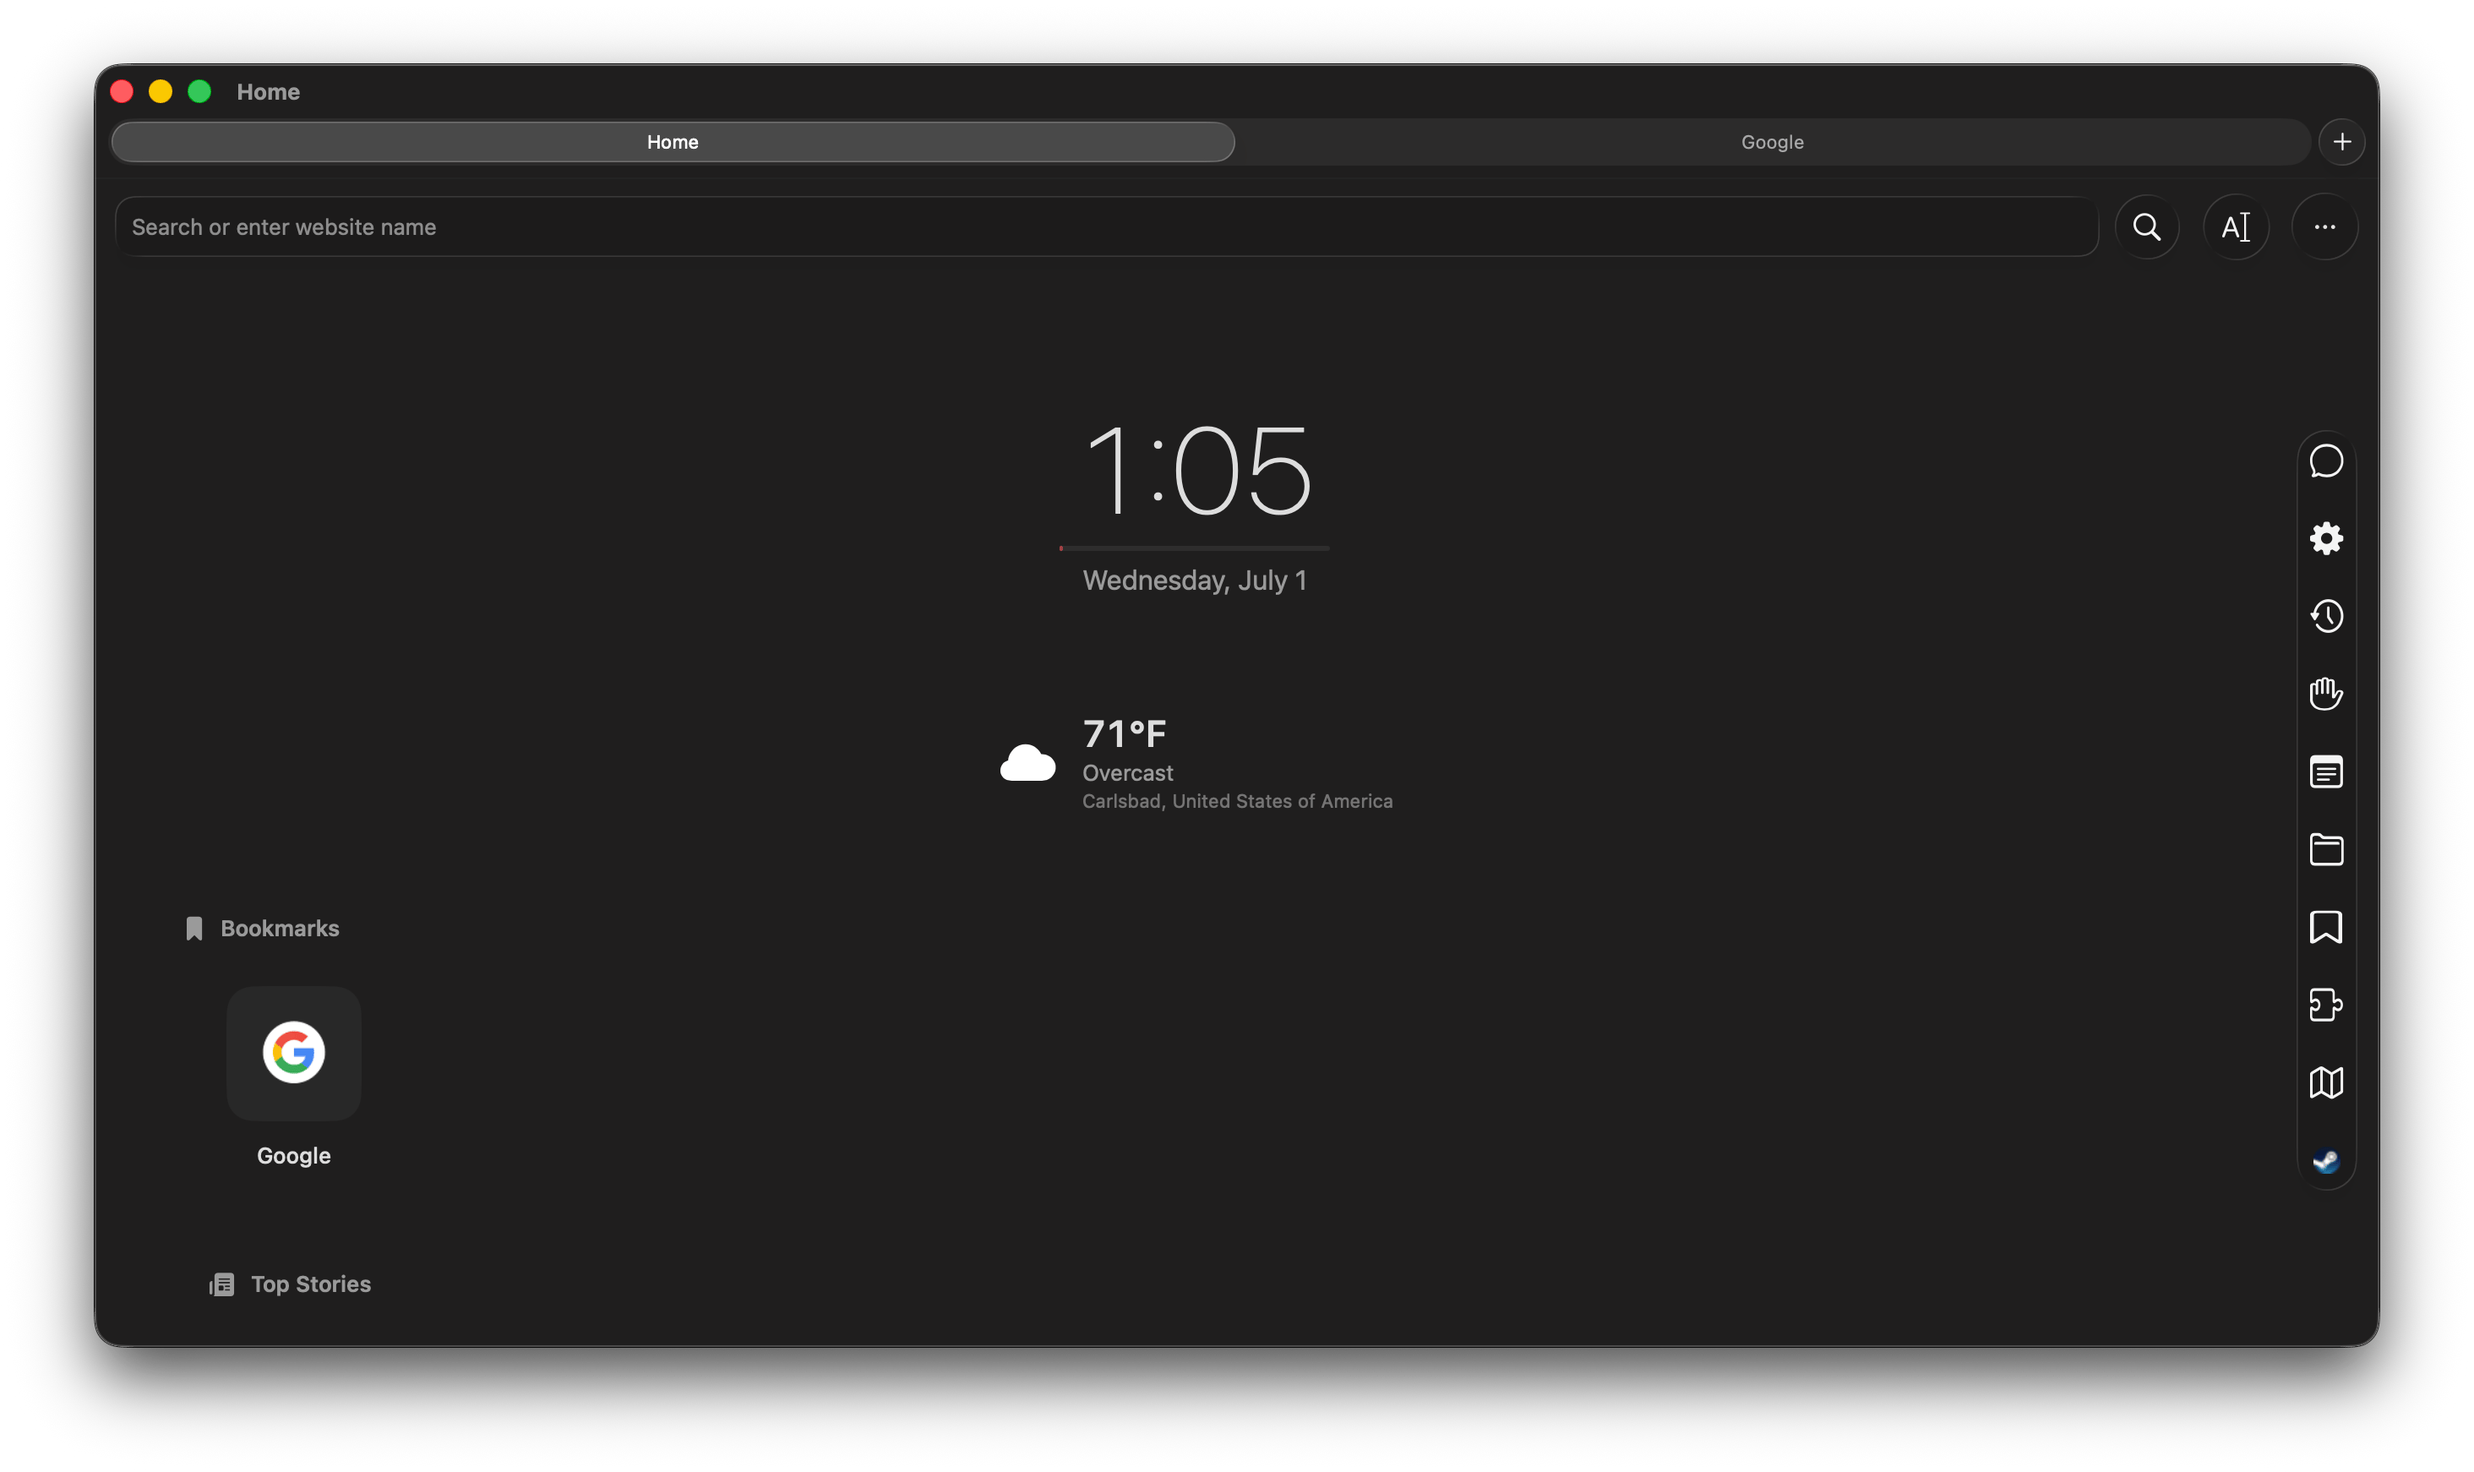
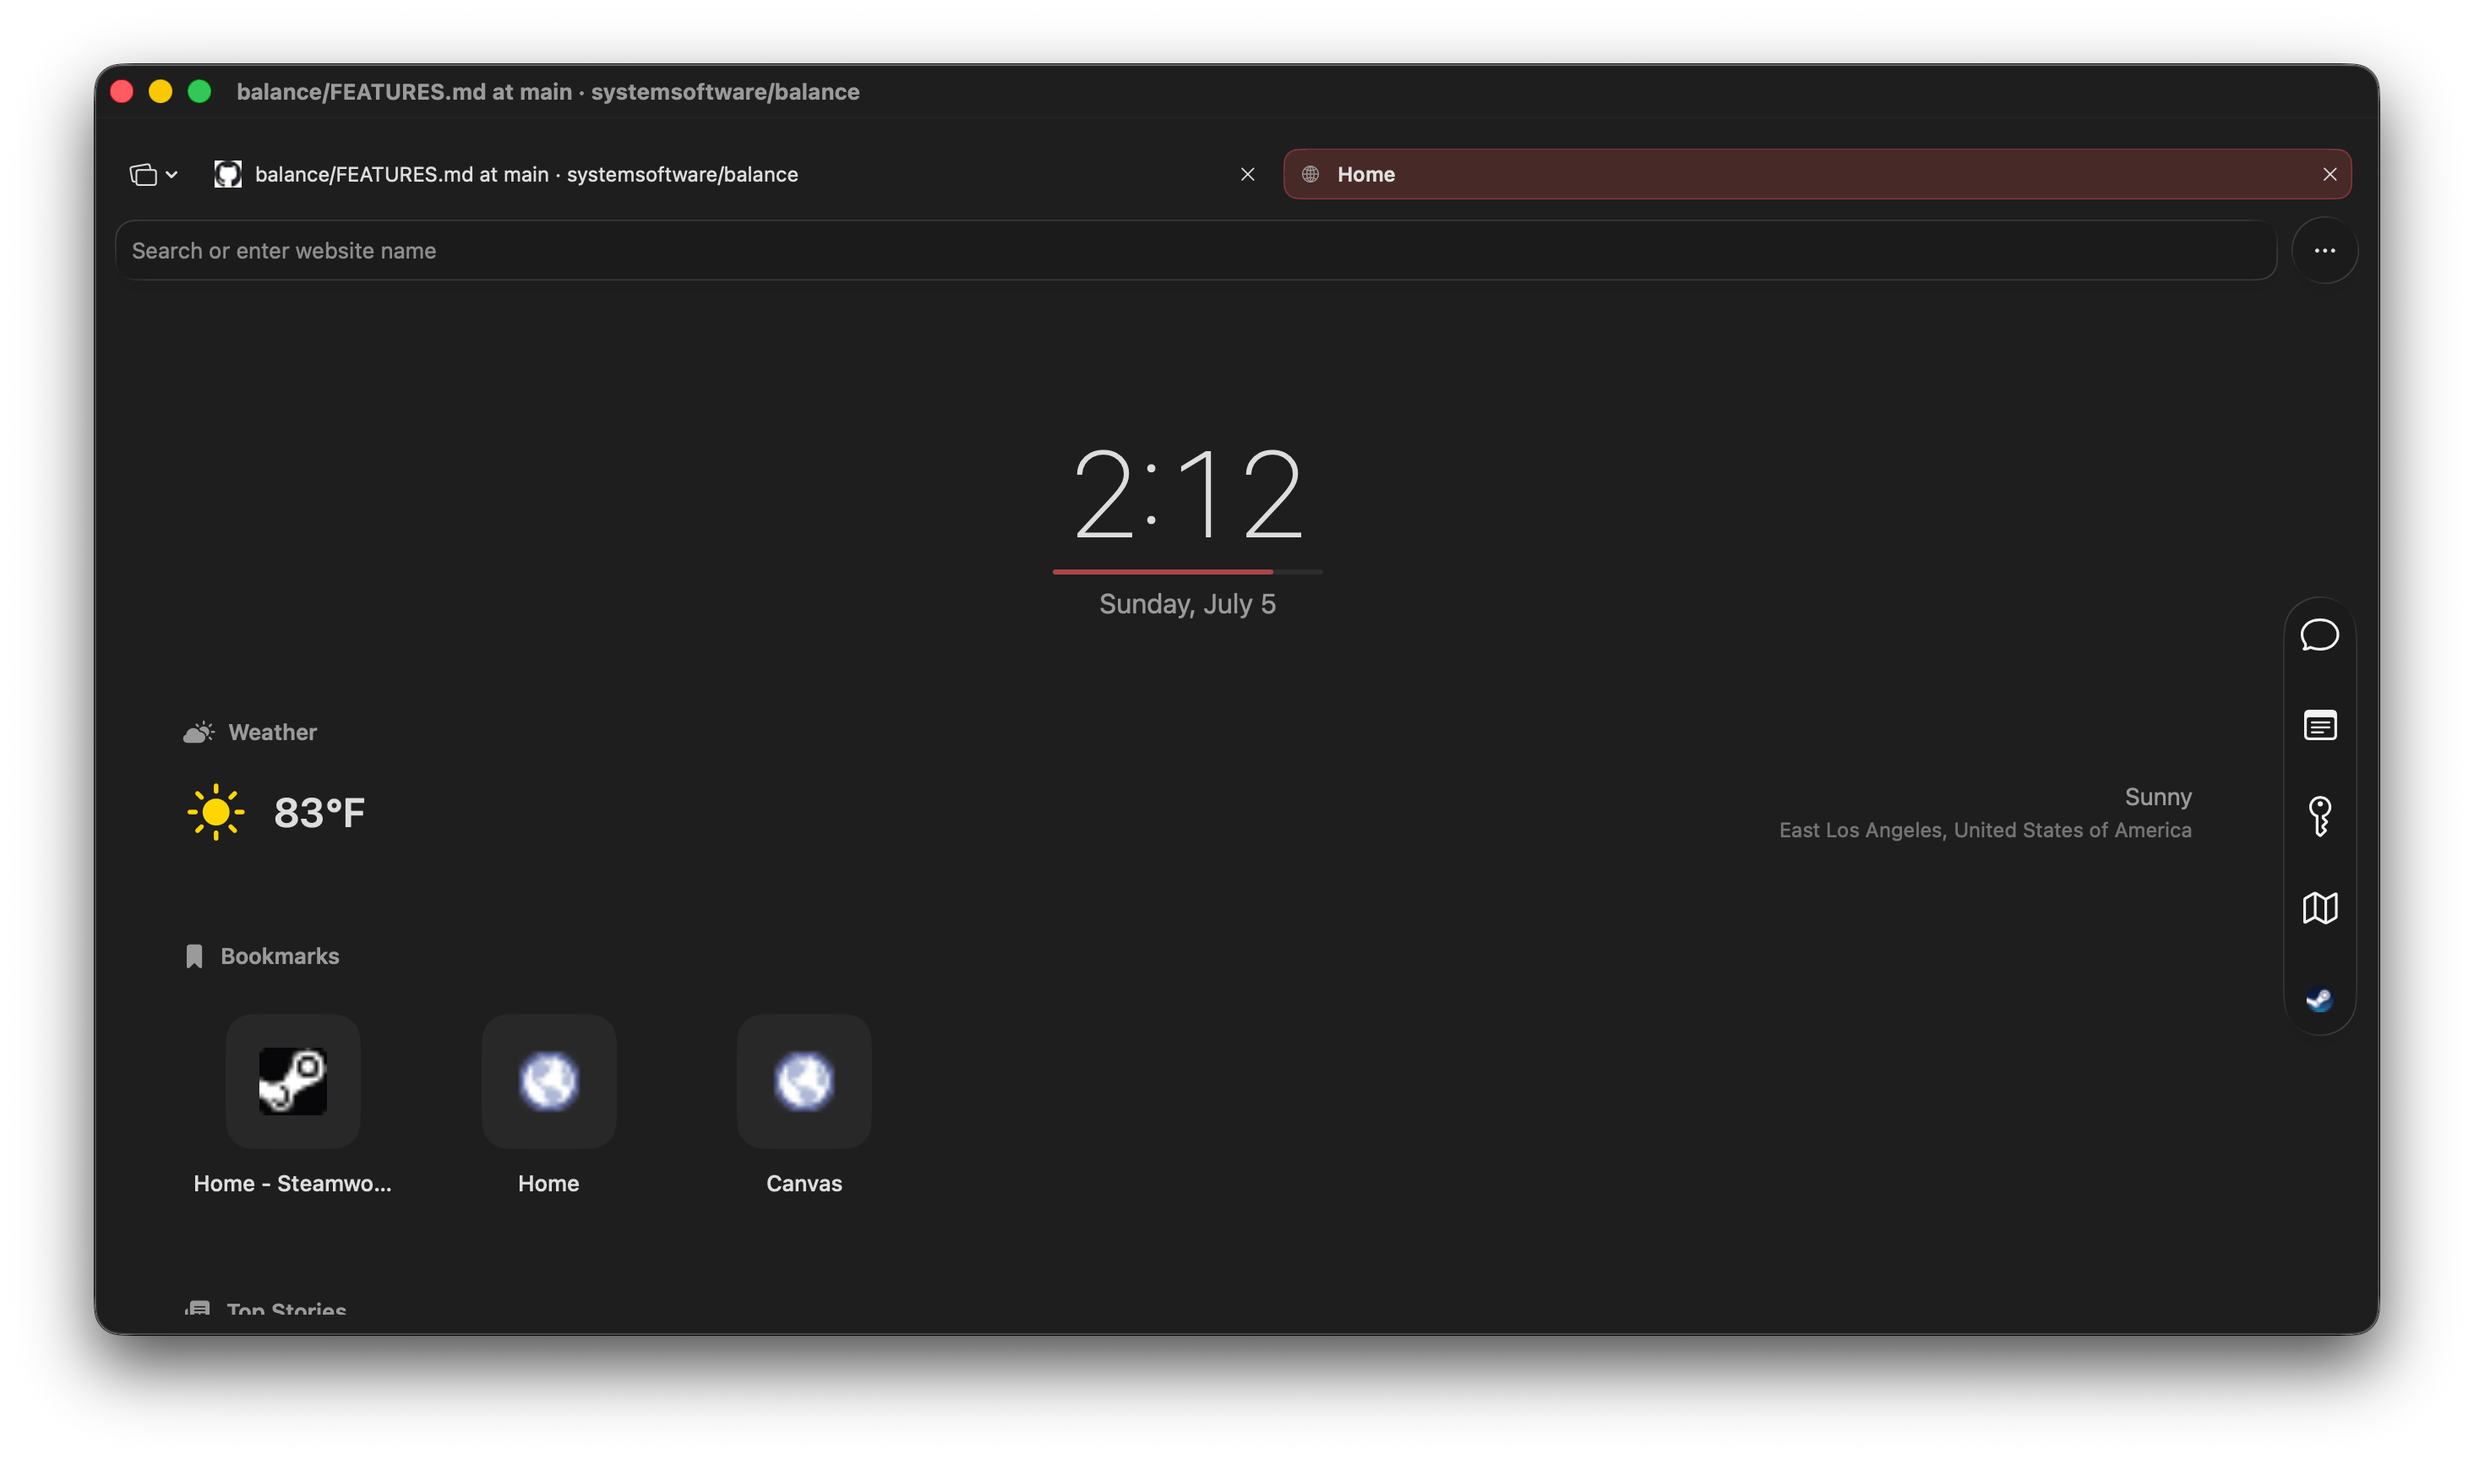
⌘W fixes

diff --git a/browser/browserApp.swift b/browser/browserApp.swift
@@ -380,9 +380,14 @@ struct CommandButton: View {
     
     var body: some View {
         Button(command.title) {
-            dispatch?(command)
+            if let dispatch = dispatch {
+                dispatch(command)
+            } else if command == .closeTab {
+                NSApp.keyWindow?.performClose(nil)
+            }
         }
         .keyboardShortcut(command.shortcut)
+        .disabled(dispatch == nil && command != .closeTab)
     }
 }
 
